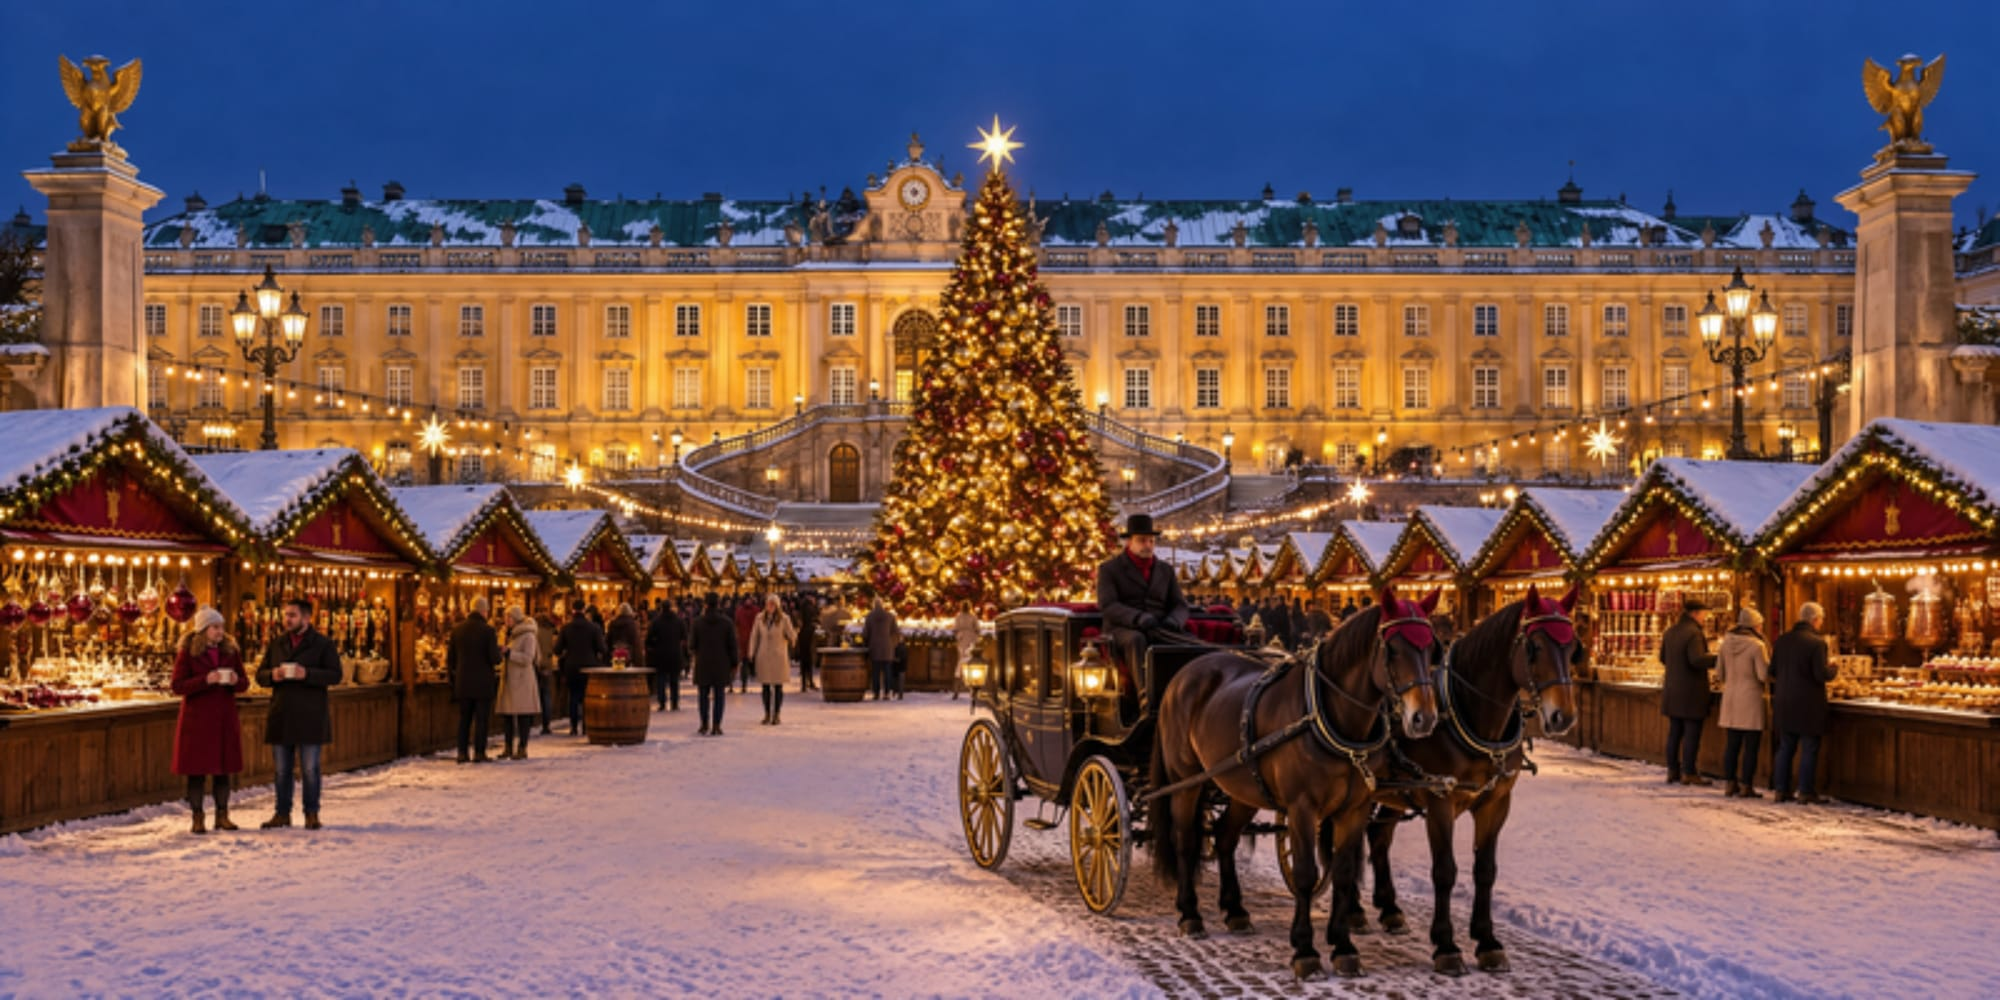
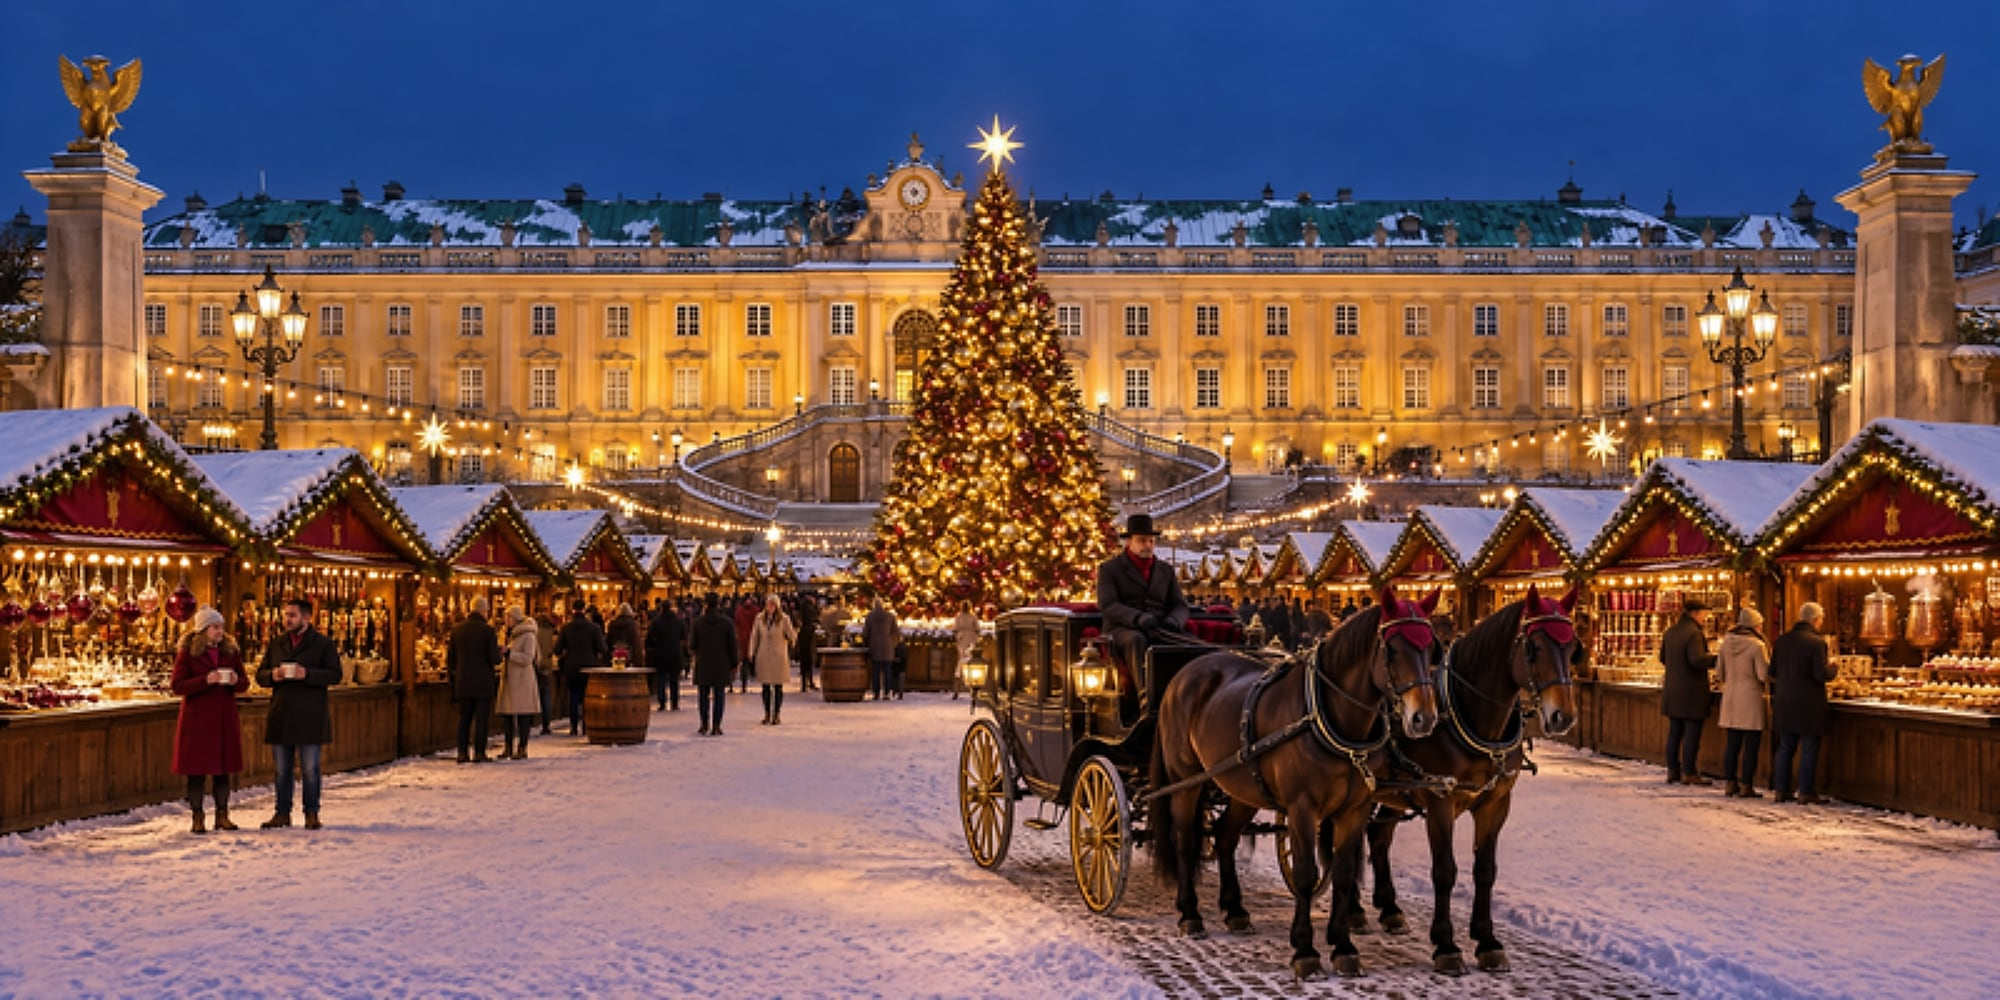
Keep card glints inside cards; sharper tour hero on large screens

diff --git a/index.html b/index.html
@@ -410,7 +410,8 @@ a.btn:active{transform:scale(.985)!important}
 #main-links .btn:nth-child(2)::after,#travel-links .btn:nth-child(1)::after{--glint:1.4s}
 #travel-links .btn:nth-child(2)::after,#more-links .btn:nth-child(1)::after{--glint:2.8s}
 #more-links .btn:nth-child(2)::after,.social .btn::after{--glint:4.2s}
-/* glint moves with transform (GPU) instead of background-position (repaint every frame) */
+/* glint moves with transform (GPU) instead of background-position (repaint every frame); the card clips it */
+.btn{overflow:hidden!important}
 @keyframes nv-glint{0%,62%{transform:translateX(-70%)}100%{transform:translateX(70%)}}
 /* motion: the emblem breathes gently, seconds fade in on every tick */
 .brand-art{animation:emblem-entrance 1.2s ease-out both,nv-breathe 7s ease-in-out 1.2s infinite alternate!important}

diff --git a/tour.html b/tour.html
@@ -206,7 +206,7 @@ fieldset.fld{border:0}
 </div>
 
 <header class="hero">
-  <img src="img/tour-schoenbrunn.jpg" alt="Schönbrunn Palace Christmas market in the snow with a horse-drawn carriage">
+  <img src="img/tour-schoenbrunn.jpg" srcset="img/tour-schoenbrunn.jpg 2000w, img/tour-schoenbrunn-xl.jpg 2880w" sizes="100vw" alt="Schönbrunn Palace Christmas market in the snow with a horse-drawn carriage">
   <a class="back" href="./">‹ Gold Worlds 2027</a>
   <div class="hero-title rv">
     <div class="kicker">Welcome to our</div>
